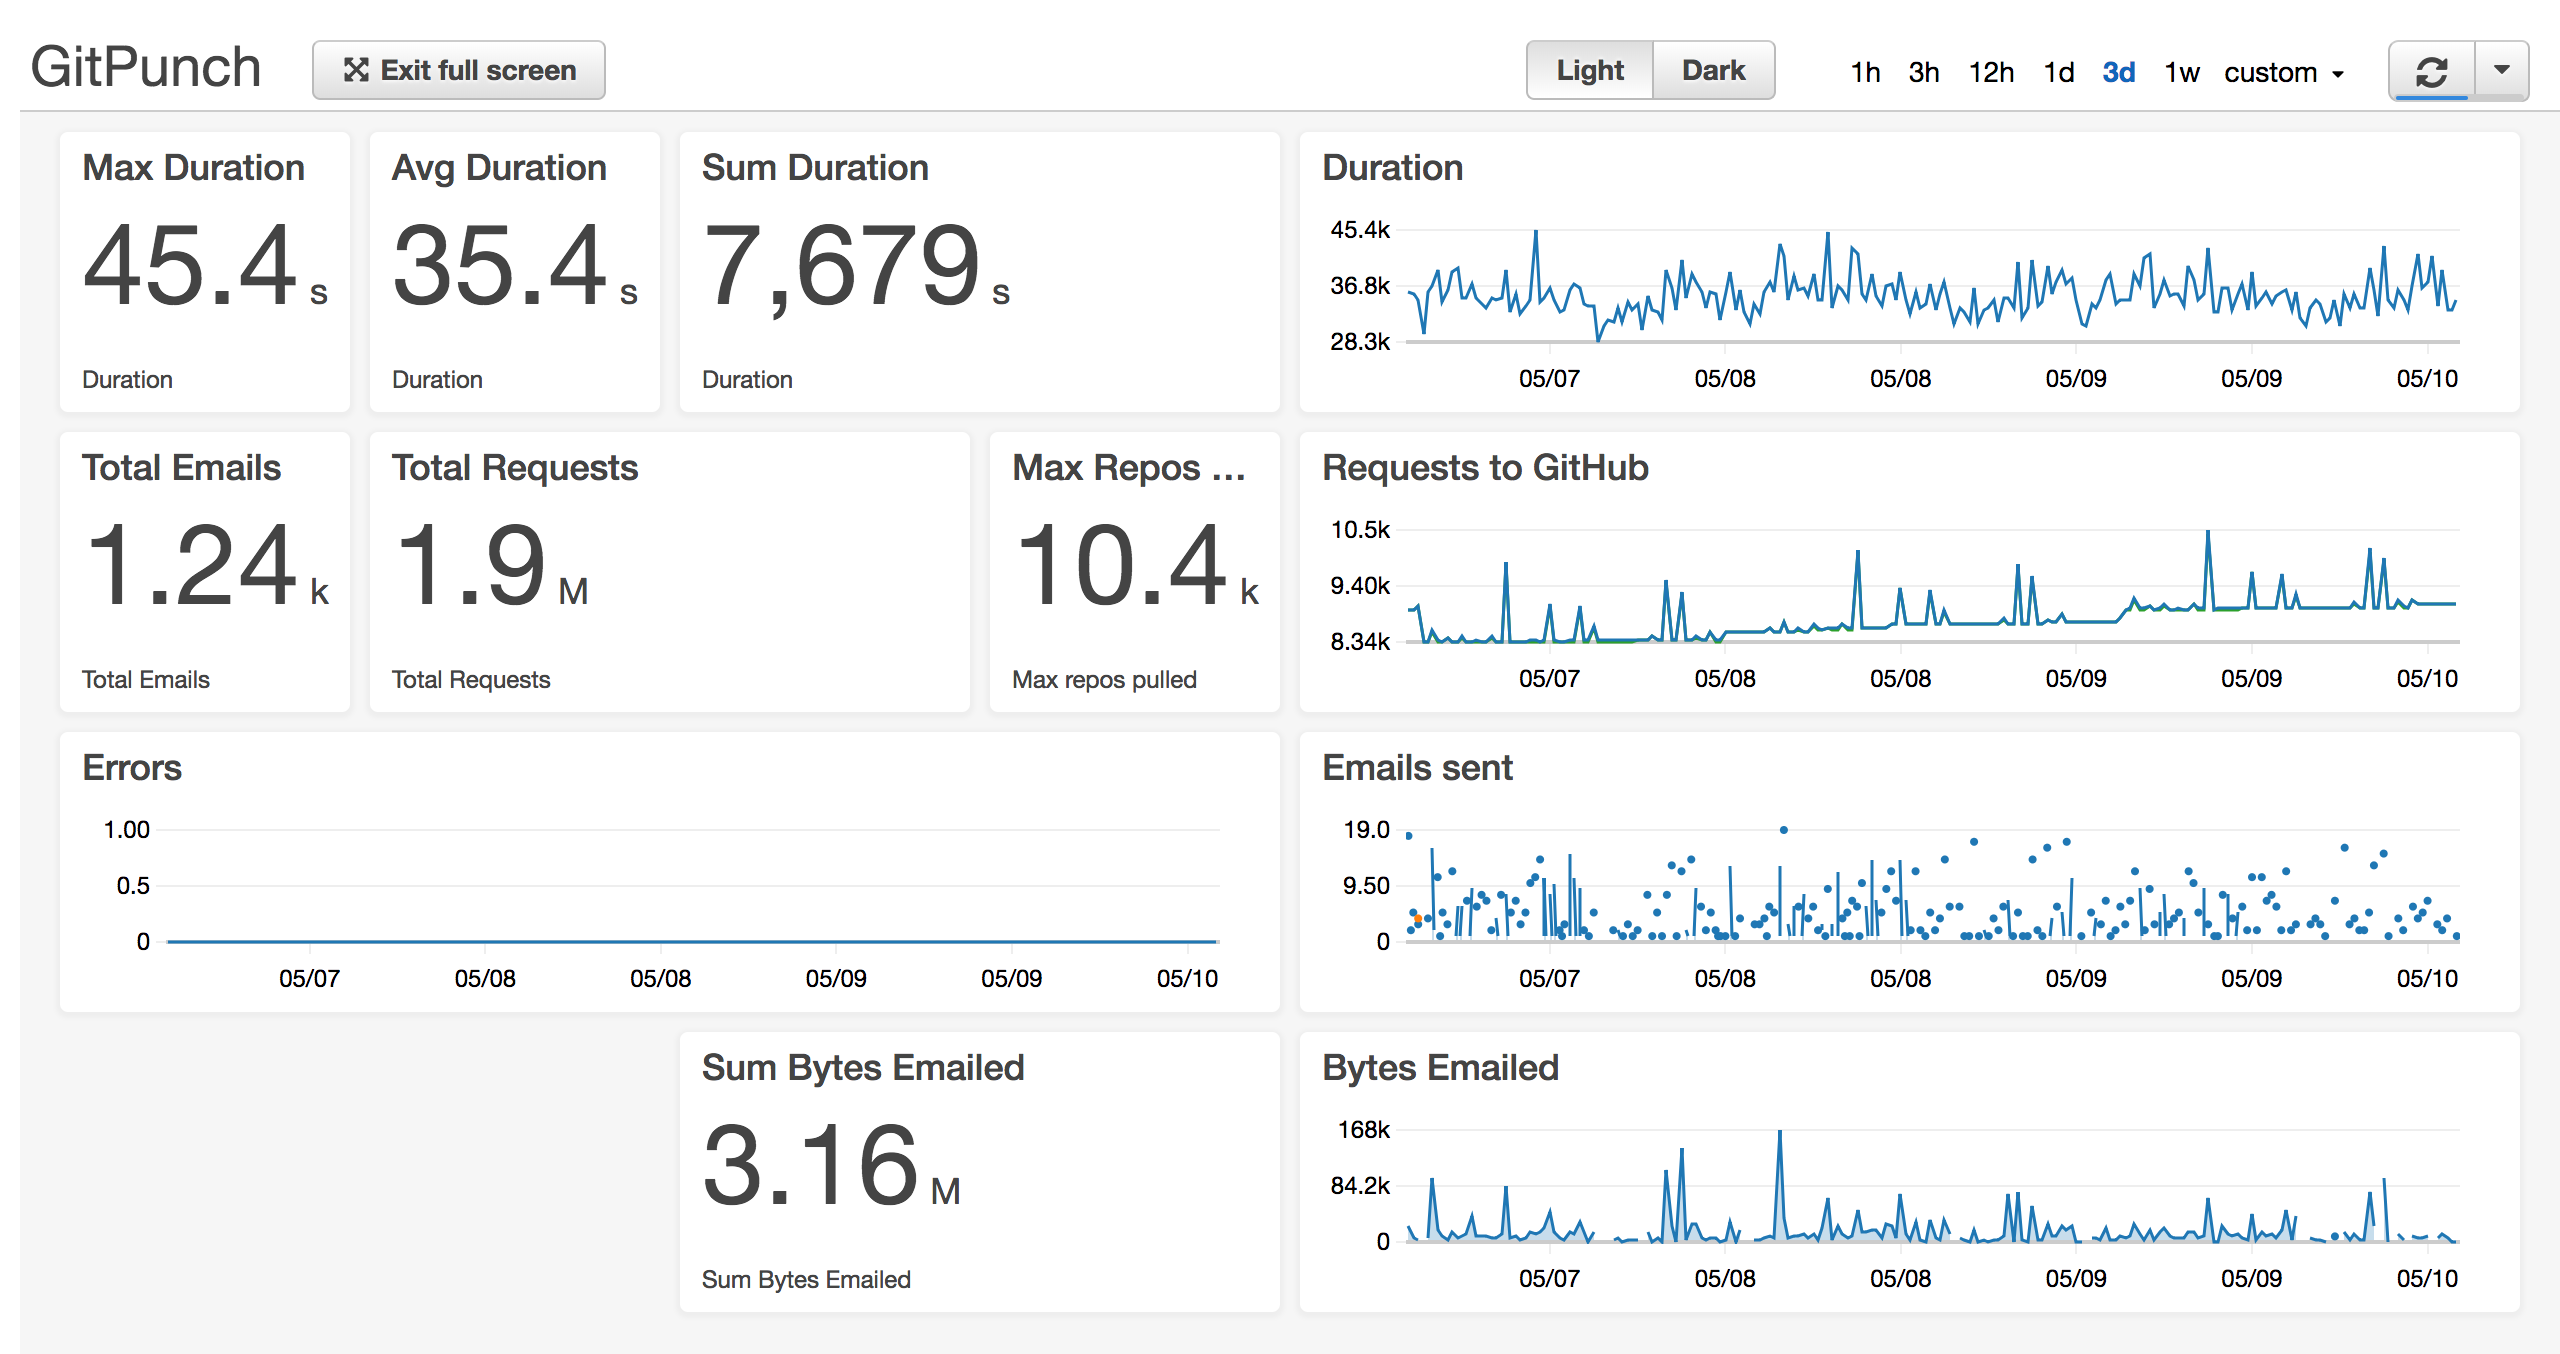
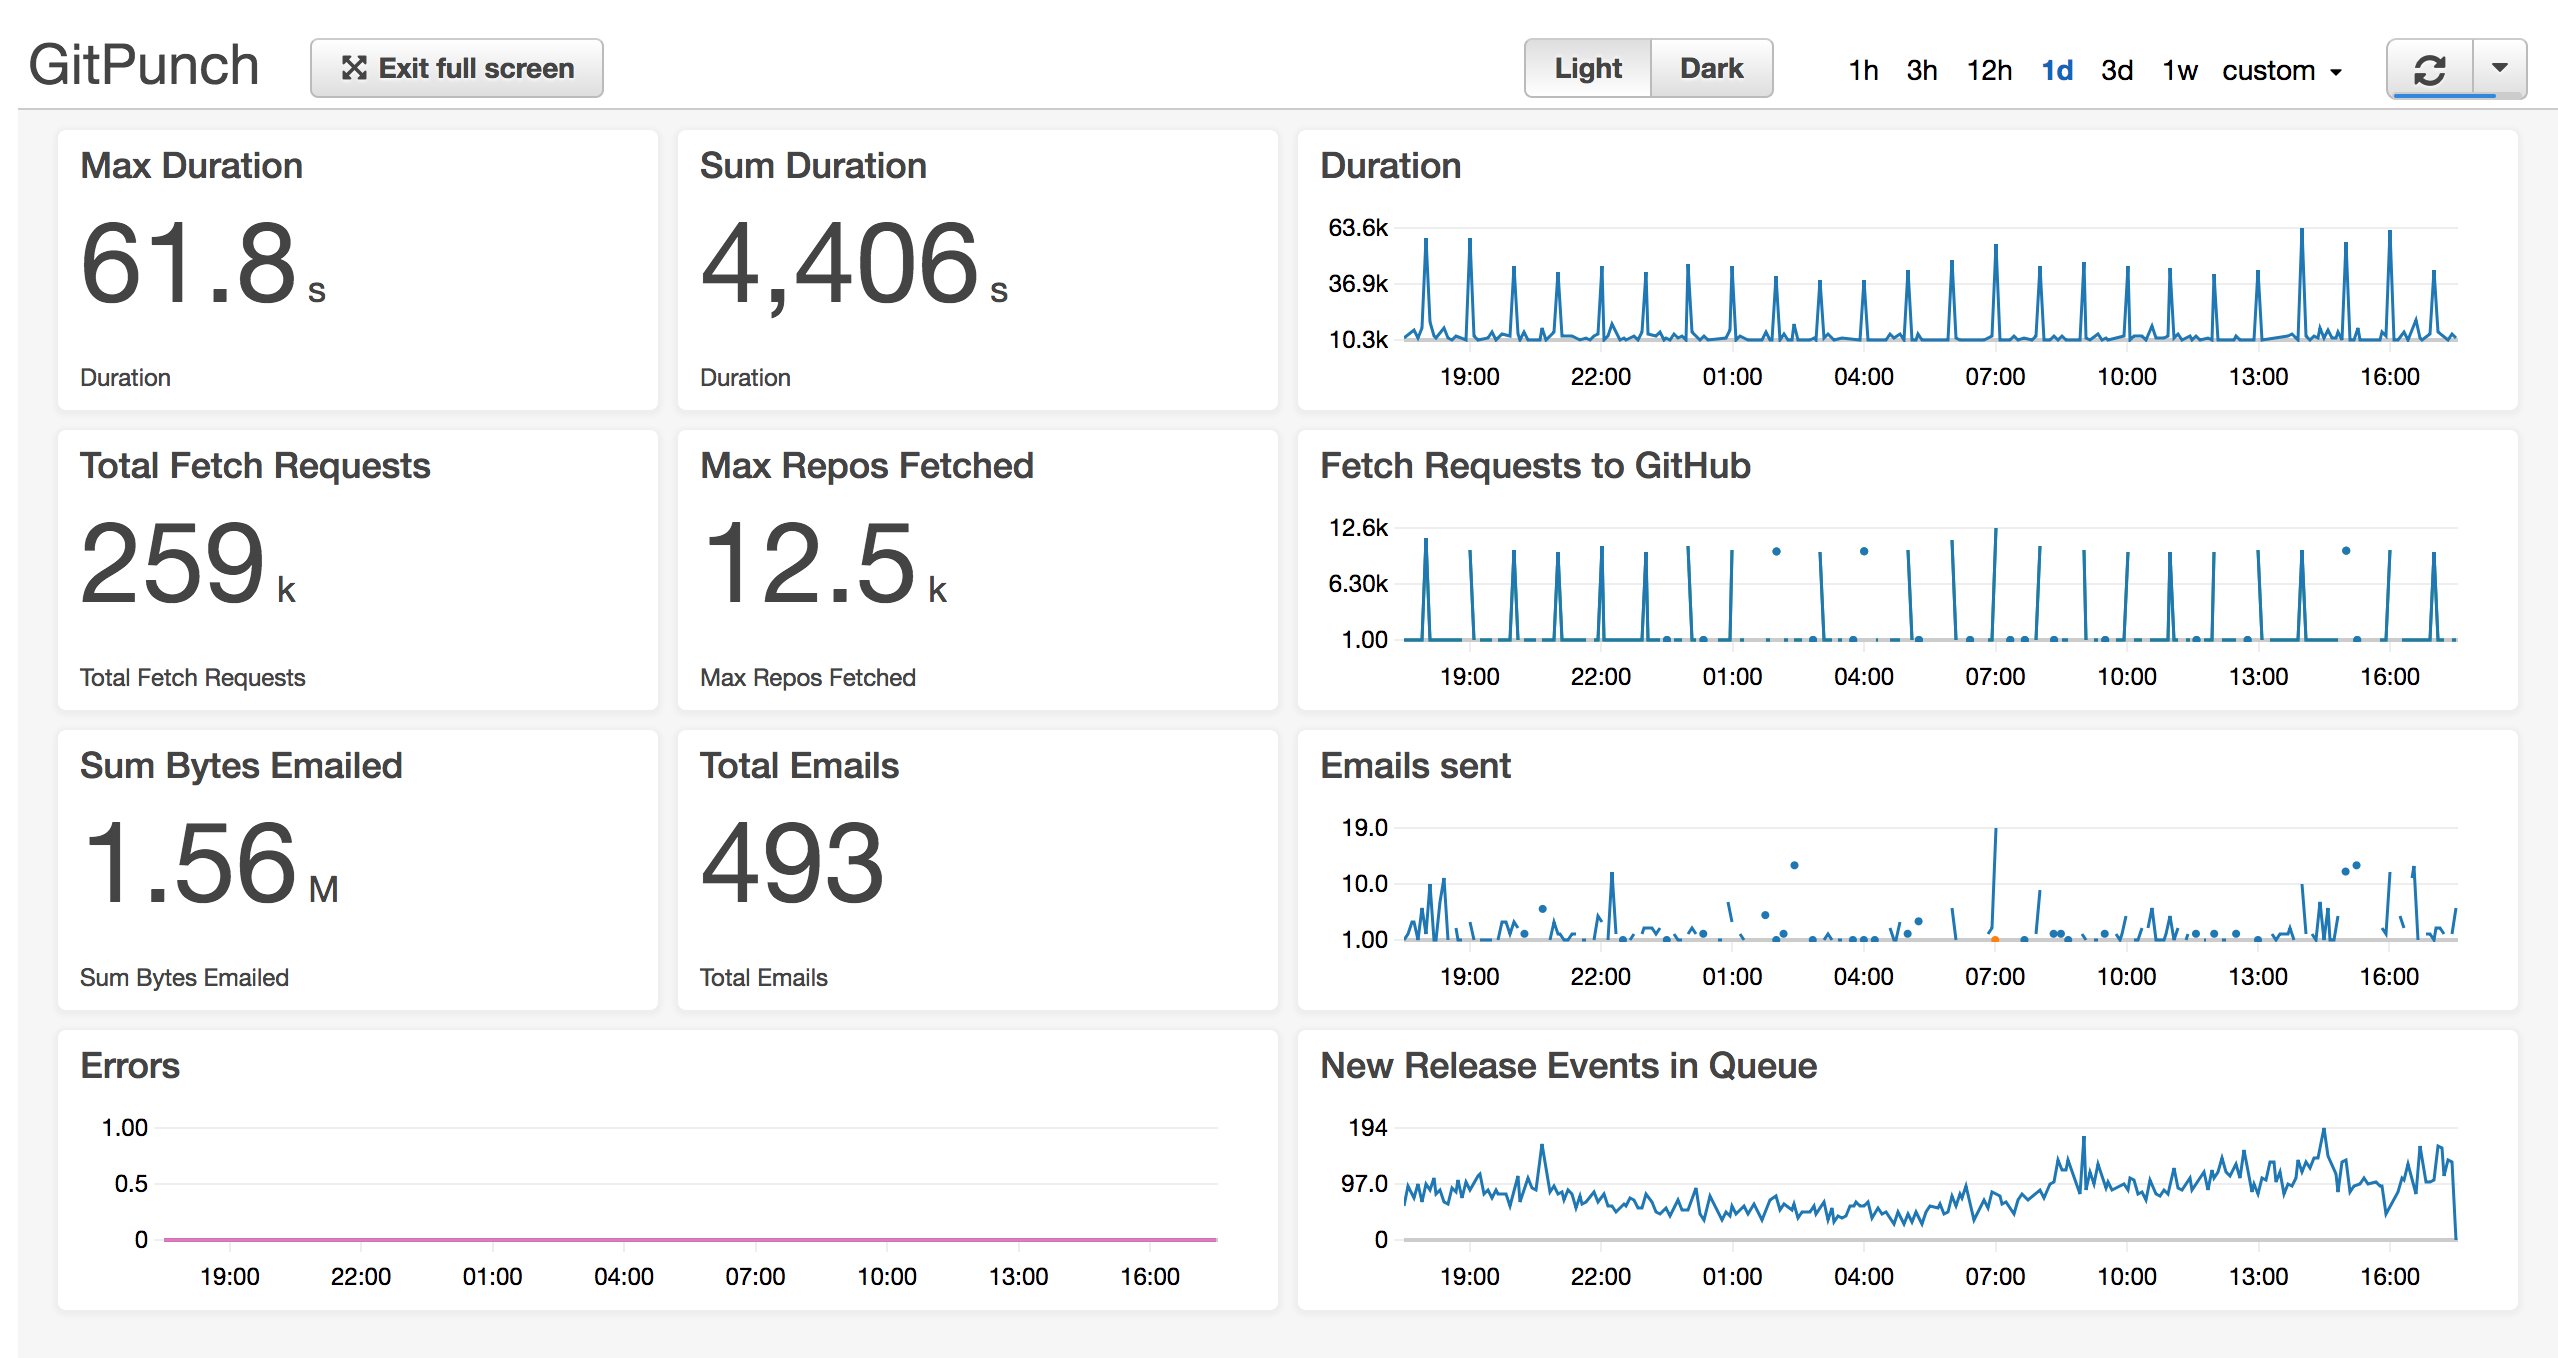
docs: update monitoring.png

diff --git a/README.md b/README.md
@@ -36,8 +36,8 @@ Relevant repos are those that:
 Details can be found in [Notifier's README](https://github.com/vfeskov/gitpunch/blob/master/notifier/README.md)
 
 ## How it's monitored
-AWS CloudWatch dashboard showing data for 3 days:<br/>
-<img src="https://raw.githubusercontent.com/vfeskov/gitpunch/master/monitoring.png" width="828px" />
+AWS CloudWatch dashboard showing data for 1 day:<br/>
+<img src="https://raw.githubusercontent.com/vfeskov/gitpunch/master/monitoring.png" width="800px" />
 
 ----------
 
